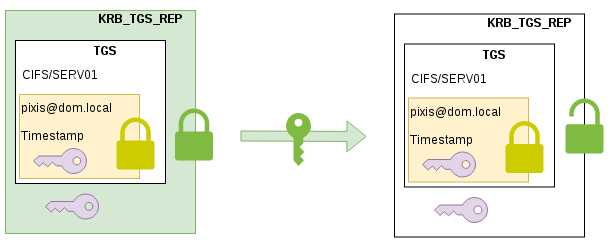
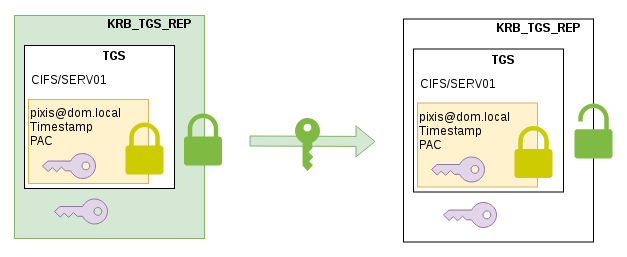
Update schemas and archives page

Changed region(s): [[0.0, 0.0283, 0.5908, 0.9636], [0.5908, 0.0283, 0.9951, 0.9636]]

diff --git a/_posts/2019-02-02-kerberos.md b/_posts/2019-02-02-kerberos.md
@@ -10,6 +10,7 @@ description: "Kerberos est un protocole qui permet à des utilisateurs de s'auth
 tags:
   - windows
   - reseau
+  - activedirectory
 ---
 
 Active Directory est une solution de Microsoft utilisée pour la gestion d'un système d'information, articulée sur les points suivants :
@@ -132,9 +133,9 @@ Voici un schéma qui permet de résumer ce processus de vérification au niveau 
 
 ##### KRB_TGS_REP
 
-Maintenant que le KDC a pu vérifier que l'utilisateur était bien `pixis`, il va lui renvoyer des informations qui lui permettront de faire une demande auprès du service. Ce message est le **KRB_TGS_REP**.
+Maintenant que le KDC a pu vérifier que l'utilisateur était bien `pixis`, il va lui renvoyer des informations qui lui permettront de faire une demande auprès du service. Ce message est le **KRB_TGS_REP**. Il est composé des éléments suivants :
 
-- Un ticket contenant le nom et l'instance du service demandé (`CIFS/SERV01`), le nom d'utilisateur (`pixis`), et une nouvelle clé de session qui est valide uniquement pour `pixis` voulant discuter avec `CIFS` sur `//SERVER01` pendant un certain temps. Ce ticket est chiffré avec la clé du service en question (donc celle de la machine, puisque le service CIFS tourne sous l'utilisateur machine);
+- Un ticket contenant le nom et l'instance du service demandé (`CIFS/SERV01`), le nom d'utilisateur (`pixis`), le PAC et une nouvelle clé de session qui est valide uniquement pour `pixis` voulant discuter avec `CIFS` sur `//SERVER01` pendant un certain temps. Ce ticket est chiffré avec la clé du service en question (donc celle de la machine, puisque le service CIFS tourne sous l'utilisateur machine);
 - La nouvelle clé de session
 
 Ces deux informations (le ticket et la clé de session) sont chiffrées avec la première clé de session, celle qui a été échangée au début entre le KDC et le client.

diff --git a/archives.md b/archives.md
@@ -33,6 +33,17 @@ title: Archives
   {% endfor %}
 {% endfor %}
 
+## Active Directory
+
+{% for post in site.posts %}
+  {% for tag in post.tags %}
+    {% if tag == "activedirectory" %}
+  {{ post.date | date_to_string }} &raquo; [ {{ post.title }} ]({{ post.url }})
+    {% break %}
+    {% endif %}
+  {% endfor %}
+{% endfor %}
+
 ## Hardware
 
 {% for post in site.posts %}
